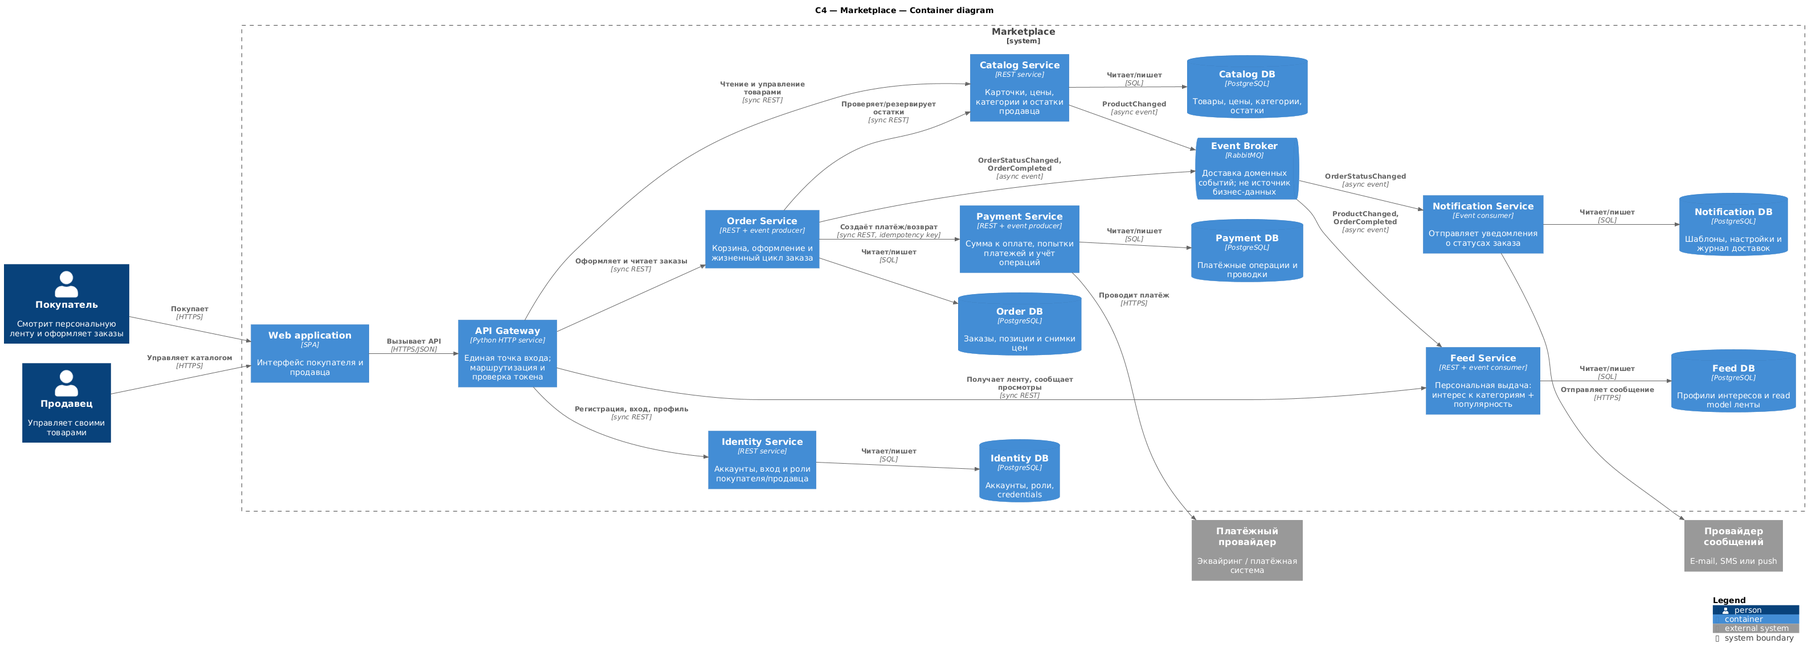
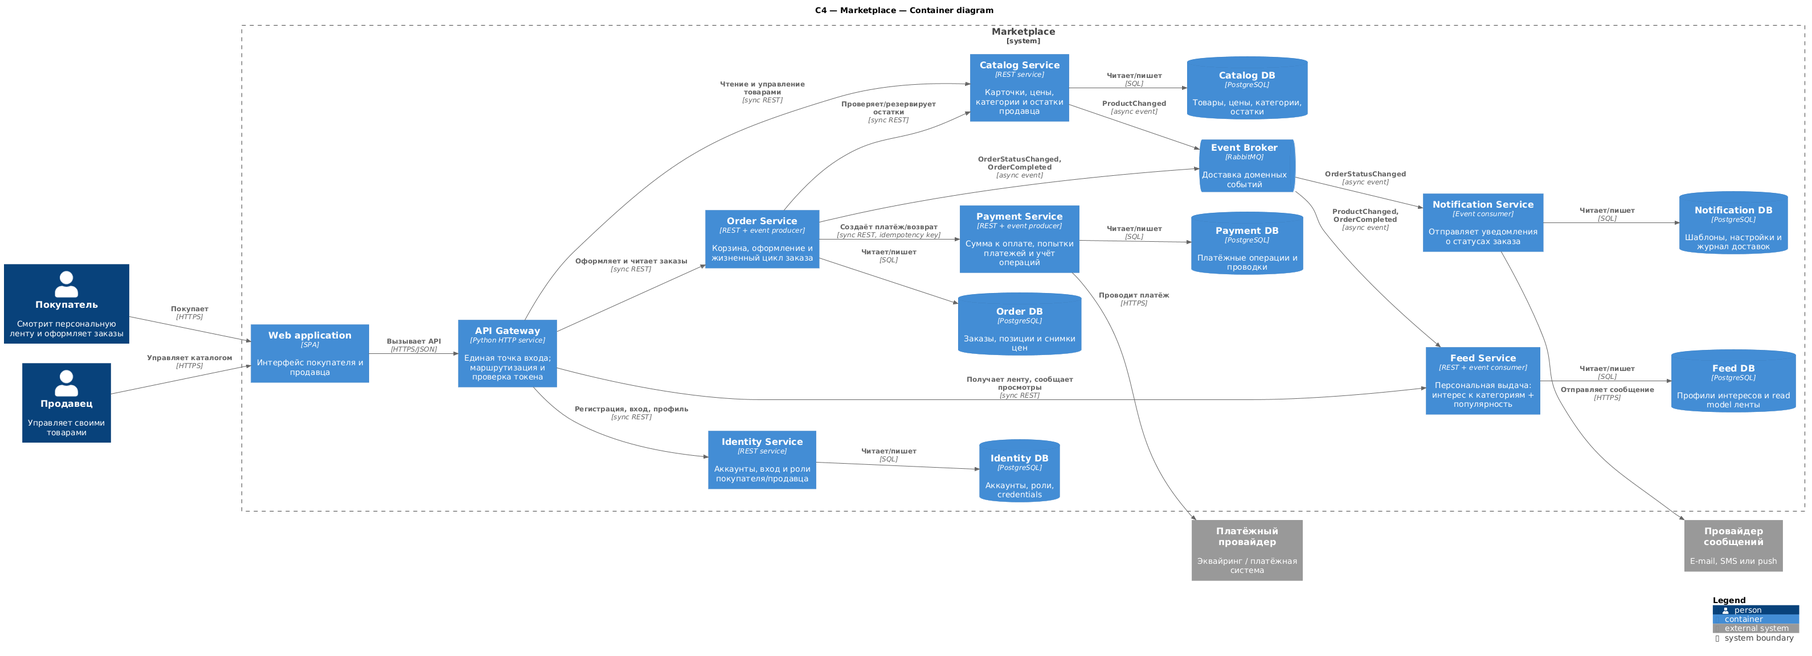
docs: simplify architecture overview

diff --git a/README.md b/README.md
@@ -1,163 +1,106 @@
-# Архитектура маркетплейса
+# Маркетплейс
 
-Учебный проект архитектуры цифровой площадки, где продавцы размещают товары, а
-покупатели получают персональную ленту и оформляют заказы. В репозитории нет
-бизнес-логики: реализован только каркас одного сервиса с `GET /health`.
+Архитектура цифровой площадки, где продавцы размещают товары, а покупатели
+получают персональную ленту и оформляют заказы.
 
 ## C4 Container
 
 ![C4 Container diagram](docs/container.svg)
 
-Исходник диаграммы: [`docs/container.puml`](docs/container.puml), растровая
-копия: [`docs/container.png`](docs/container.png). Граница
-`Marketplace` задаёт проектируемую систему; люди и провайдеры находятся вне
-неё. Каждый прямоугольник внутри — отдельно разворачиваемый container в смысле
-C4 (не обязательно Docker-контейнер).
-
-## Домены и ответственность
+## Домены и владение данными
 
 | Домен | Сервис | Ответственность | Данные во владении |
 |---|---|---|---|
-| Доступ и пользователи | Identity Service | Регистрация, аутентификация, профиль, роли покупателя и продавца | Аккаунты, роли, credentials/хеши паролей |
-| Каталог | Catalog Service | Карточки товаров, категории, цены, публикация и доступные остатки продавца | Товары, категории, актуальные цены и остатки |
-| Лента | Feed Service | Построение персональной выдачи и приём сигналов о просмотрах | Профиль интересов, счётчики популярности, read model доступных товаров |
-| Заказы | Order Service | Корзина, оформление и смена статусов заказа | Заказы, позиции, адрес доставки, снимки цен на момент заказа |
-| Платежи | Payment Service | Расчёт итоговой операции, авторизация/возврат и учёт денежных операций | Попытки платежа, статусы, idempotency keys, проводки; не хранит данные карты |
-| Уведомления | Notification Service | Формирование и доставка сообщений о статусах заказа | Настройки каналов, шаблоны, журнал и статус доставки |
+| Пользователи | Identity Service | Регистрация, аутентификация, профили и роли покупателей и продавцов | Аккаунты, роли, хеши паролей |
+| Каталог | Catalog Service | Товары, категории, цены, публикация и остатки | Карточки товаров, категории, цены, остатки |
+| Лента | Feed Service | Персональная выдача и обработка просмотров | Профили интересов, популярность товаров, локальная модель каталога |
+| Заказы | Order Service | Корзина, оформление и статусы заказов | Заказы, позиции, адреса доставки, снимки цен |
+| Платежи | Payment Service | Расчёт суммы, проведение платежей и возвратов, учёт операций | Платёжные попытки, статусы, idempotency keys, проводки |
+| Уведомления | Notification Service | Отправка уведомлений о статусах заказов | Настройки каналов, шаблоны, журнал доставки |
 
-API Gateway не является бизнес-доменом: он даёт Web application единую точку
-входа, проверяет токен и маршрутизирует запрос. Event Broker также не владеет
-бизнес-данными — события в нём являются транспортом, а не источником истины.
+У каждого сервиса своя база данных. Сервис обращается напрямую
+только к собственной базе; общих таблиц и межсервисных JOIN нет. API Gateway
+маршрутизирует клиентские запросы, а RabbitMQ доставляет события между
+сервисами.
 
-### Почему границы именно такие
+## Персонализация ленты
 
-Границы совпадают с бизнес-возможностями, у которых разные правила и профиль
-нагрузки. Каталог часто читают и меняют продавцы; лента читается ещё чаще и
-может терпеть небольшую задержку обновления; заказу нужна строгая история
-статусов; платежам — отдельный аудит; уведомления зависят от внешних каналов и
-могут повторяться. Поэтому их жизненные циклы и данные не смешиваются.
+Feed Service ранжирует товары по интересу пользователя к категориям и общей
+популярности:
 
-У каждого сервиса отдельная **логическая база** и только владелец обращается к
-ней по SQL. Даже если в учебной среде несколько баз размещены на одном сервере
-PostgreSQL, схемы/пользователи изолированы. Межсервисных JOIN и общей базы нет.
+`score = 0.7 × category_affinity + 0.3 × popularity`
 
-## Персонализация
-
-Выбрана объяснимая реализация без отдельного ML-сервиса. Feed Service повышает
-товары из категорий, которые пользователь недавно просматривал или покупал, и
-добавляет общий показатель популярности. Упрощённый ранг:
-
-`score = 0.7 × category_affinity + 0.3 × popularity`.
-
-Для нового пользователя используется популярность. Feed Service получает
-изменения товаров и завершённые заказы асинхронно, а просмотры — через API
-Gateway. Его read model может отставать на несколько секунд: это допустимо для
-ленты и не влияет на проверку актуальной цены/остатка при оформлении заказа.
+Интерес определяется по просмотрам и завершённым заказам. Новому пользователю
+показываются популярные товары. Изменения каталога и сведения о завершённых
+заказах поступают в Feed Service асинхронно, поэтому лента может обновляться с
+небольшой задержкой. Цена и остаток повторно проверяются при оформлении заказа.
 
 ## Взаимодействия
 
-| Откуда → куда | Способ | Назначение и причина |
+| Откуда → куда | Способ | Назначение |
 |---|---|---|
-| Web application → API Gateway | синхронно, HTTPS/JSON | Клиенту нужен немедленный ответ |
-| Gateway → Identity / Catalog / Feed / Order | синхронно, REST | Команды и запросы пользователя |
-| Order → Catalog | синхронно, REST | Проверка и резерв остатка входят в результат checkout |
-| Order → Payment | синхронно, REST + idempotency key | Результат платежной попытки нужен checkout; повтор безопасен |
-| Catalog → Broker → Feed | асинхронно, `ProductChanged` | Лента обновляет свою read model без связи баз |
-| Order → Broker → Feed | асинхронно, `OrderCompleted` | Завершённая покупка уточняет интересы |
-| Order → Broker → Notification | асинхронно, `OrderStatusChanged` | Задержка сообщения допустима; доступны retry и dead-letter queue |
-| Payment / Notification → внешние провайдеры | синхронно, HTTPS | Интеграция с эквайрингом и каналами доставки |
+| Web application → API Gateway | синхронно, HTTPS/JSON | Запросы покупателя и продавца |
+| API Gateway → Identity / Catalog / Feed / Order | синхронно, REST | Выполнение команд и получение данных |
+| Order → Catalog | синхронно, REST | Проверка и резервирование остатка |
+| Order → Payment | синхронно, REST с idempotency key | Проведение платежа или возврата |
+| Catalog → RabbitMQ → Feed | асинхронно, `ProductChanged` | Обновление модели товаров в ленте |
+| Order → RabbitMQ → Feed | асинхронно, `OrderCompleted` | Обновление интересов покупателя |
+| Order → RabbitMQ → Notification | асинхронно, `OrderStatusChanged` | Отправка уведомления о статусе заказа |
+| Payment → платёжный провайдер | синхронно, HTTPS | Проведение операции |
+| Notification → провайдер сообщений | синхронно, HTTPS | Отправка e-mail, SMS или push |
 
-Для событий предполагаются уникальный `event_id`, версия схемы, время и
-идентификатор сущности. Потребители идемпотентны. Публикация события и изменение
-локальной БД выполняются через transactional outbox. При ошибке платежа Order
-переводит заказ в неуспешный статус и освобождает резерв в Catalog; это простая
-оркестрация saga внутри Order Service, без отдельного оркестратора.
+## Варианты декомпозиции
 
-## Варианты декомпозиции и trade-off'ы
+### Модульный монолит
 
-### 1. Модульный монолит
-
-Один backend-процесс с модулями Identity, Catalog, Feed, Order, Payment и
-Notification и одной PostgreSQL с отдельными схемами.
+Один backend с модулями Identity, Catalog, Feed, Order, Payment и Notification.
 
 Плюсы:
 
-- самый простой запуск, отладка и транзакции;
-- меньше сетевых отказов и инфраструктуры;
-- разумный старт для маленькой команды и неизвестной нагрузки.
+- простой запуск и отладка;
+- меньше сетевых взаимодействий и инфраструктуры;
+- общие операции можно выполнять в одной ACID-транзакции;
+- горизонтальное масштабирование выполняется добавлением реплик всего приложения.
 
 Минусы:
 
-- релиз и масштабирование только целиком, хотя нагрузка ленты и платежей разная;
-- изоляция платежных данных слабее;
-- границы модулей легко нарушить прямыми JOIN и вызовами.
+- сбой или нехватка ресурсов в одном модуле может затронуть остальные функции;
+- границы модулей легко нарушить прямыми вызовами и запросами к чужим таблицам;
+- платёжный контур сложнее изолировать по доступам и требованиям аудита.
 
-### 2. Микросервисы по бизнес-возможностям — выбранный вариант
+### Микросервисы по бизнес-возможностям — выбранный вариант
 
-Шесть доменных сервисов с собственными данными, Gateway и брокер событий — как
-на C4-диаграмме.
+Шесть доменных сервисов с отдельными базами данных, API Gateway и RabbitMQ.
 
 Плюсы:
 
-- явное владение данными и независимые изменения доменов;
-- независимое масштабирование горячих контуров Feed и Catalog;
-- сбой отправки уведомления не блокирует оформление заказа;
-- отдельная граница безопасности и аудита для платежей.
+- явные границы ответственности и владения данными;
+- Feed и Catalog можно масштабировать независимо от остальных сервисов;
+- сбой провайдера уведомлений не блокирует оформление заказа;
+- платежи изолированы для контроля доступа и аудита.
 
 Минусы:
 
-- сетевые отказы, eventual consistency и необходимость идемпотентности;
-- сложнее сквозная диагностика и локальная среда;
-- checkout требует резервов и компенсаций вместо одной ACID-транзакции.
+- нужно обрабатывать сетевые ошибки и повторные запросы;
+- данные ленты и уведомлений согласуются асинхронно;
+- оформление заказа требует резервирования и компенсаций вместо одной общей
+  транзакции;
+- сложнее локальный запуск и сквозная диагностика.
 
-### 3. Вертикальные сервисы Buyer и Seller
+Выбран микросервисный вариант: каталог и лента имеют высокую нагрузку на
+чтение, платежам нужна отдельная граница безопасности, а задержка уведомлений не
+должна влиять на заказ. Такое разделение сохраняет одного владельца для товара,
+заказа и платежа и позволяет изолировать разные типы нагрузки и отказов.
 
-Buyer Backend обслуживает ленту и покупку, Seller Backend — кабинет и каталог,
-а Payment остаётся отдельным. Каждый вертикальный сервис оптимизирован под свой
-пользовательский сценарий.
+## Запуск сервиса
 
-Плюсы:
-
-- автономные команды и релизы покупательского и продавецкого путей;
-- API каждого приложения соответствует его сценарию;
-- меньше межсервисных вызовов внутри одного пользовательского потока.
-
-Минусы:
-
-- товар и пользователь нужны обеим вертикалям, поэтому появляются копии и
-  сложная синхронизация;
-- правила каталога и доступа могут дублироваться;
-- неясное владение общими сущностями повышает риск расхождения данных.
-
-### Обоснование выбора
-
-Выбран вариант 2. Он прямо демонстрирует требуемые в задании доменные границы,
-владение данными и оба типа взаимодействий. В сравнении с монолитом он лучше
-показывает независимые профили нагрузки ленты, каталога и уведомлений; в
-сравнении с вертикальными сервисами сохраняет одного владельца товара, заказа и
-платежа. Цена распределённости для реального MVP могла бы быть избыточной, но
-для этого архитектурного задания она ограничена: один REST-стиль, один брокер,
-один тип БД и без дополнительной платформенной инфраструктуры.
-
-Решение также зафиксировано в
-[`ADR-0001`](docs/adr/0001-service-decomposition.md).
-
-## Инициализированный сервис
-
-API Gateway — минимальный Python-сервис только на стандартной библиотеке.
-Бизнес-маршруты намеренно отсутствуют.
+Инициализирован API Gateway с health-check endpoint:
 
 | Метод и путь | Ответ |
 |---|---|
 | `GET /health` | `200 OK`, `{"status": "ok"}` |
-| любой другой путь | `404 Not Found` |
 
-### Требования
-
-- Docker с Compose plugin;
-- для локальных тестов без Docker — Python 3.11+.
-
-### Запуск
+Требуется Docker с Compose plugin.
 
 ```bash
 docker compose up --build -d
@@ -170,44 +113,15 @@ curl --fail http://localhost:8080/health
 {"status": "ok"}
 ```
 
-Проверить встроенный Docker health-check:
+Состояние контейнера и остановка:
 
 ```bash
 docker compose ps
-```
-
-В колонке состояния после периода запуска должно быть `healthy`. Остановить:
-
-```bash
 docker compose down
 ```
 
-Если хостовый порт `8080` занят, можно изменить только внешний порт:
-
-```bash
-HOST_PORT=18080 docker compose up --build -d
-curl --fail http://localhost:18080/health
-HOST_PORT=18080 docker compose down
-```
-
-Локальные тесты:
+Локальные тесты (Python 3.11+):
 
 ```bash
 python3 -m unittest discover -v
 ```
-
-### Пересборка диаграммы
-
-В репозитории уже лежит SVG для просмотра. Чтобы пересобрать его из PlantUML
-(команда скачает Docker-образ PlantUML и C4-библиотеку при первом запуске):
-
-```bash
-make diagram
-```
-
-## Что намеренно не реализовано
-
-Базы данных, RabbitMQ и остальные сервисы присутствуют только в архитектурном
-проекте. Их добавление сейчас создало бы фиктивную бизнес-логику и противоречило
-бы этапу задания. Также не добавлены Kubernetes, service discovery, distributed
-tracing и CI/CD: они не нужны, чтобы выполнить заявленные требования.
